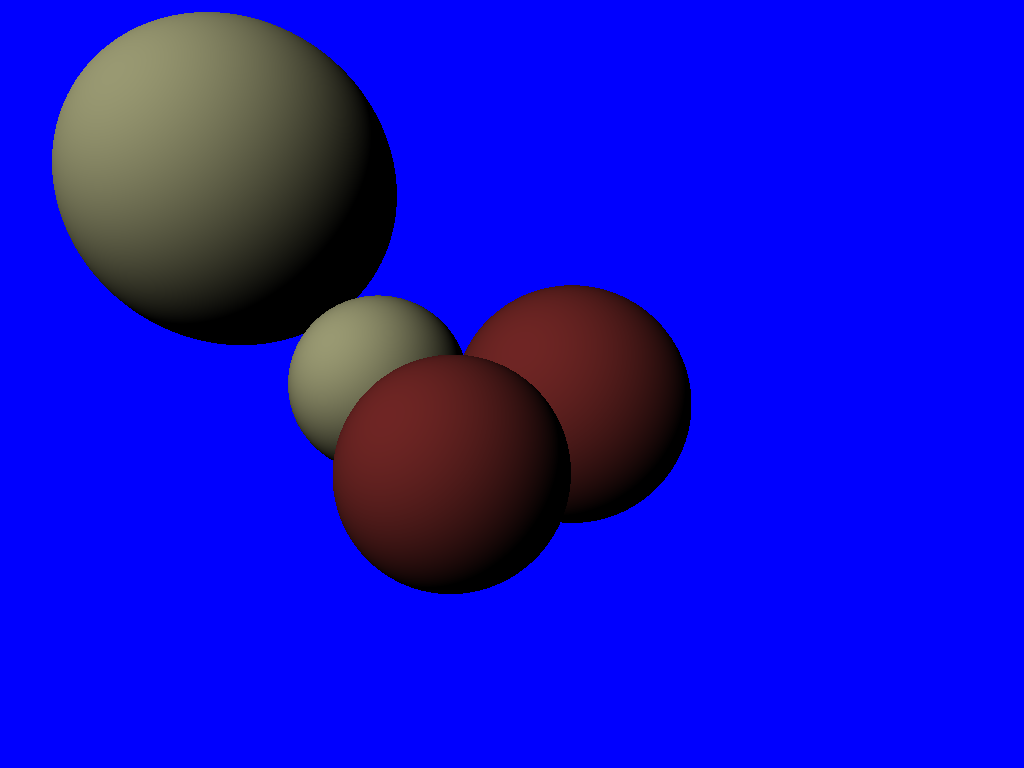
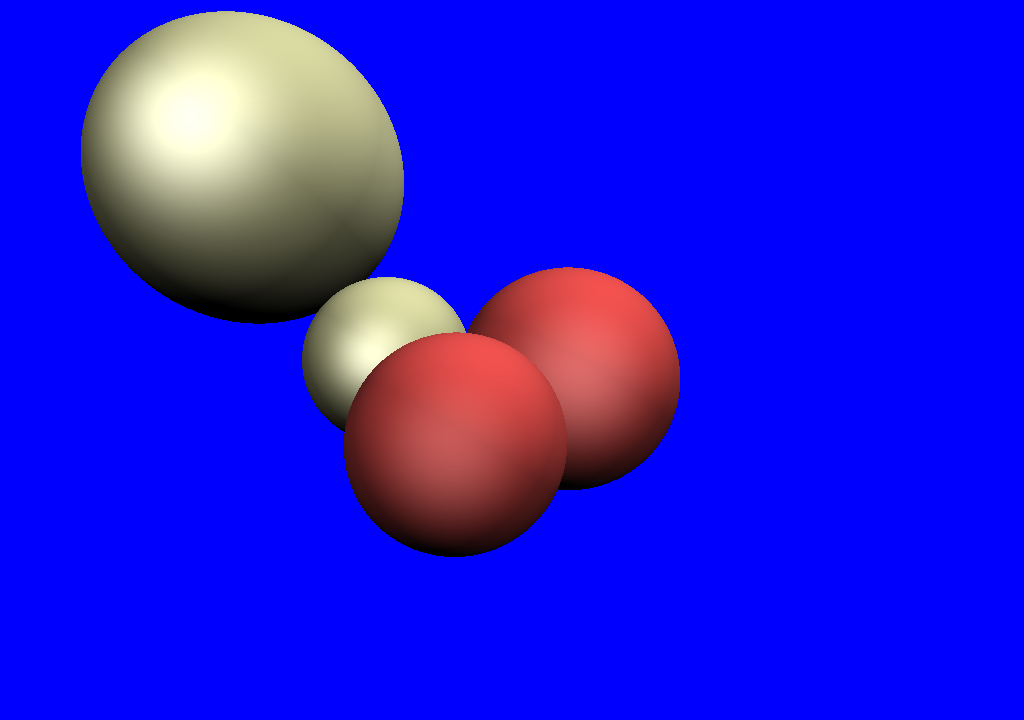
specular lighting

Changed region(s): [[0.0312, 0.0, 0.6875, 0.7639]]

diff --git a/src/raytracer.js b/src/raytracer.js
@@ -100,7 +100,10 @@ function castRay(origin, direction) {
     return CONFIG.BACKGROUND_COLOR;
   }
 
+  let material = intersection.sphere.material;
+
   let diffuseLightIntensity = 0;
+  let specularLightIntensity = 0;
 
   for (let i = 0; i < lights.length; i++) {
     let l = lights[i];
@@ -108,13 +111,27 @@ function castRay(origin, direction) {
     let lightDirection = l.position.sub(intersection.hitPoint).normalize();
     
     diffuseLightIntensity += l.intensity * Math.max(0, lightDirection.dot(intersection.normal));
+    specularLightIntensity += 
+      Math.pow(
+        Math.max(
+          0,
+          reflect(lightDirection.neg(), intersection.normal).neg().dot(direction)
+        ),
+        material.specular
+      ) * l.intensity;
   }
 
-  let color = intersection.sphere.material.diffuse;
+  let diffuse = material.diffuse.scale(diffuseLightIntensity).scale(material.albedo.x);
+  let specular = (new Color(255, 255, 255)).scale(specularLightIntensity).scale(material.albedo.y);
 
-  return color.scale(diffuseLightIntensity);
+  return diffuse.add(specular);
 }
 
 function reflect(i, n) {
-  return i.sub(n.scale(2).mult((i.mult(n))));
+  return i.sub(
+    n.scale(2)
+     .mult(
+       i.mult(n)
+     )
+  );
 }

diff --git a/src/material.js b/src/material.js
@@ -1,16 +1,17 @@
 import { COLORS } from './color.js';
+import Vector3 from './vector3.js';
 
 class Material {
-  constructor(diffuse, specular, albedo = 1) {
+  constructor(diffuse, specular, albedo) {
     this.diffuse = diffuse;
     this.specular = specular;
-    this.albedo = albedo;
+    this.albedo = albedo; // это Vector2, на самом деле
   }
 }
 
 const MATERIALS = {
-  IVORY: new Material(COLORS.IVORY, 1),
-  RED_RUBBER: new Material(COLORS.RED_RUBBER, 1)
+  IVORY: new Material(COLORS.IVORY, 3, new Vector3(0.6, 0.3, 1)),
+  RED_RUBBER: new Material(COLORS.RED_RUBBER, 2, new Vector3(0.9, 0.1, 1))
 }
 
 export {

diff --git a/src/vector3.js b/src/vector3.js
@@ -6,10 +6,6 @@ class Vector3 {
     this.z = z;
   }
 
-  clone() {
-    return new Vector3(this.x, this.y, this.z);
-  }
-
   add(v) {
     return new Vector3(this.x + v.x, this.y + v.y, this.z + v.z);
   }
@@ -32,6 +28,14 @@ class Vector3 {
 
   dot(v = this) {
     return this.x * v.x + this.y * v.y + this.z * v.z;
+  }
+
+  clone() {
+    return new Vector3(this.x, this.y, this.z);
+  }
+
+  neg() {
+    return new Vector3(this.x * -1, this.y * -1, this.z * -1);
   }
 
   length() {

diff --git a/src/color.js b/src/color.js
@@ -10,6 +10,15 @@ class Color {
     return new Color(this.r, this.g, this.b, this.a);
   }
 
+  add(v) {
+    return new Color(
+      this.r + (v.x || v.r),
+      this.g + (v.y || v.g),
+      this.b + (v.z || v.b),
+      this.a + (v.w || v.a)
+    );
+  }
+
   scale(f, multAlpha = false) {
     let c = new Color(this.r * f, this.g * f, this.b * f, this.a)
 
